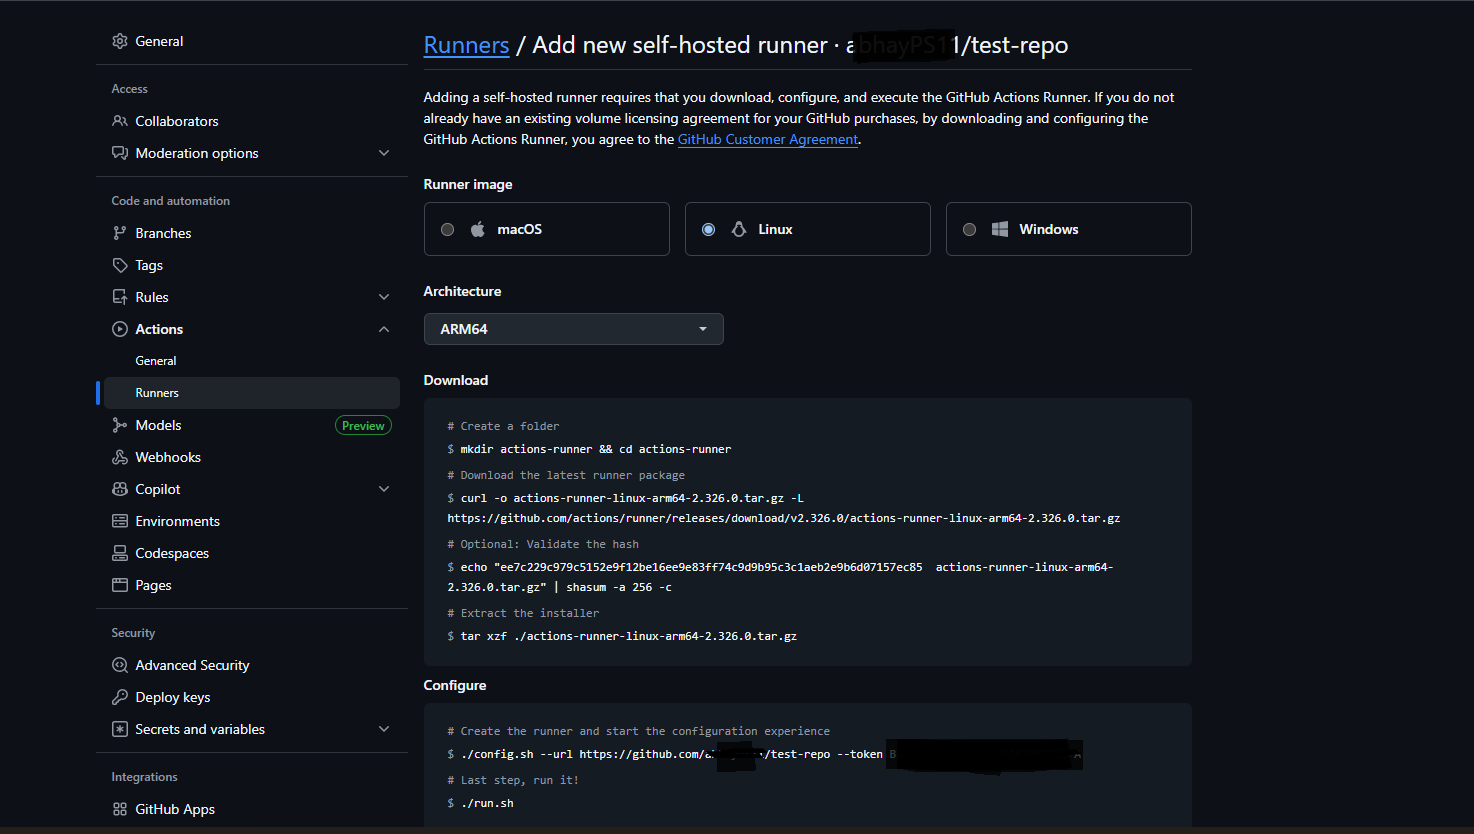
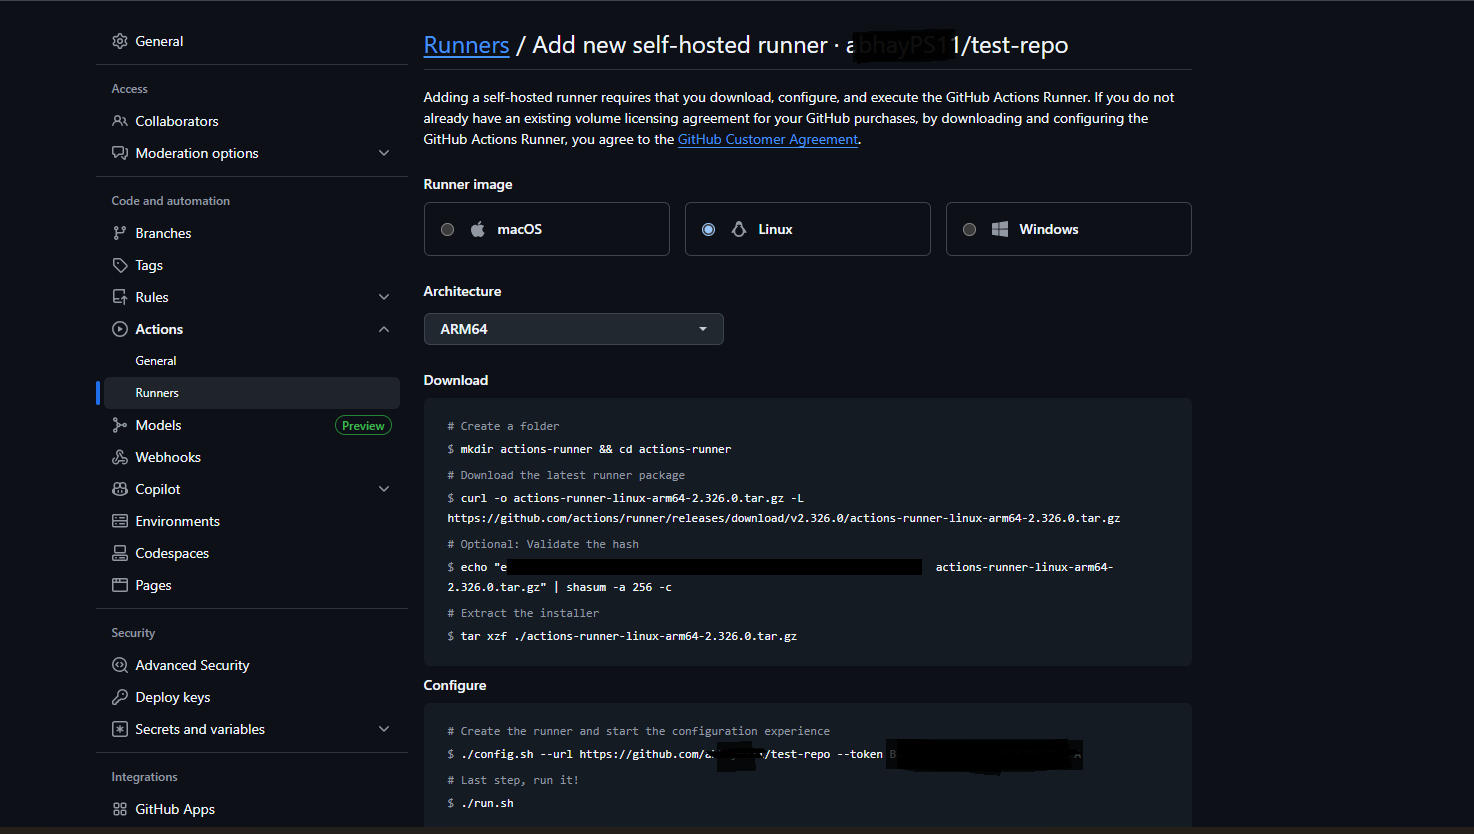
Tech review of Axion and GitHub Self-Hosted Runner

Changed region(s): [[0.3433, 0.6547, 0.6242, 0.717]]

diff --git a/content/learning-paths/servers-and-cloud-computing/github-on-arm/deploy.md b/content/learning-paths/servers-and-cloud-computing/github-on-arm/deploy.md
@@ -1,5 +1,5 @@
 ---
-title: Install and Set Up GitHub Self-Hosted Runner on Google Cloud C4A Virtual Machine
+title: Set up a GitHub Self-Hosted Runner
 weight: 4
 
 ### FIXED, DO NOT MODIFY
@@ -7,31 +7,53 @@ layout: learningpathall
 ---
 
 
-## Set Up GitHub Actions Self-Hosted Runner on Google Axion C4A Virtual Machine
+This section shows how to deploy a self-hosted GitHub Actions runner on your instance. It covers installing Git and GitHub CLI, authenticating with GitHub and configuring the runner on an Arm64 environment for optimized CI/CD workflows.
 
-This Learning Path shows how to deploy a self-hosted GitHub Actions runner on a Google Cloud C4A Arm64 virtual machine running Ubuntu. It covers installing Git and GitHub CLI, authenticating with GitHub and configuring the runner on an Arm64 environment for optimized CI/CD workflows.
+### Set up development environment
 
-### Install Git and GitHub CLI 
+Start by installing the required dependencies using the `apt` package manager:
+
 ```console
-sudo apt update 
-sudo apt install -y git gh
+sudo apt update
+sudo apt install -y git gh vim
 ```
-Login to GitHub
+
+Next step is to configure your git credentials. Update the command with your name and email.
+
+```bash
+git config --global user.email "[email redacted]"
+git config --global user.name "Your Name"
+```
+
+Now you are ready to connect the machine to GitHub. The command below is used to authenticate the GitHub CLI with your GitHub account. It allows you to securely log in using a web browser or token, enabling the CLI to interact with repositories, actions, and other GitHub features on your behalf.
+
+
 ```console
-gh auth login 
- ```
-The command `gh auth login` is used to authenticate the GitHub CLI with your GitHub account. It allows you to securely log in using a web browser or token, enabling the CLI to interact with repositories, actions, and other GitHub features on your behalf.
+gh auth login
+```
+
+The command will prompt you to make a few choices. For this use-case, you can use the default ones as shown in the image below.
 
 ![Login to GitHub](./images/gh-auth.png)
 
-Below is the GitHub login UI:
+{{% notice %}}
+If you get an error opening the browser on your virtual machine, you can navigate to the following URL on the host machine.
+```
+https://github.com/login/device
+```
+From there, you can enter the code displayed in the CLI of the virtual machine.
+{{% /notice %}}
+
+If the log in was successful, you will see the following confirmation in your browser window.
 
 ![GitHub UI](./images/login-page.png)
 
-### Test GitHub CLI and Git 
-Create a test repo: 
+### Test GitHub CLI and Git
+
+The command below creates a new public GitHub repository named **test-repo** using the GitHub CLI. It sets the repository visibility to public, meaning anyone can view it
+
 ```console
-gh repo create test-repo –public
+gh repo create test-repo --public
 ```
 You should see an output similar to:
 ```output
@@ -39,38 +61,25 @@ You should see an output similar to:
   https://github.com/<your-github-account>/test-repo
 ```
 
-The command `gh repo create test-repo --public` creates a new public GitHub repository named **test-repo** using the GitHub CLI. It sets the repository visibility to public, meaning anyone can view it 
 
 ### Configure the Self-Hosted Runner
-Go to your repository's **Settings > Actions**, and under the **Runners** section, click on **Add Runner** or view existing self-hosted runners.
+
+* Go to your repository's **Settings > Actions**, and under the **Runners** section
+* Click on **Add Runner** or view existing self-hosted runners.
+
+{{% notice Note %}}
 If the **Actions** tab is not visible, ensure Actions are enabled by navigating to **Settings > Actions > General**, and select **Allow all actions and reusable workflows**.
+{{% /notice %}}
 
 ![runner](./images/newsh-runner.png)
 
-Then, click on the **New runner** button, followed by **New self-hosted runner**. In the **Add new self-hosted runner** section, proceed as follows:
-- Select Linux for the operating system.
-- Choose ARM64 for the architecture
+Then, click on the **New self-hosted runner** button. In the **Add new self-hosted runner** section. Select Linux for the operating system, and choose ARM64 for the architecture. This will generate commands to set up the runner. Copy and run them on your Google Axion C4A virtual machine.
 
 ![new-runner](./images/new-runner.png)
 
-Next, execute the following instructions on your Google Axion C4A virtual machine:
-```console
-mkdir actions-runner && cd actions-runner# Download the latest runner package
-curl -o actions-runner-linux-arm64-2.326.0.tar.gz -L https://github.com/actions/runner/releases/download/v2.326.0/actions-runner-linux-arm64-2.326.0.tar.gz
-echo "ee7c229c979c5152e9f12be16ee9e83ff74c9d9b95c3c1aeb2e9b6d07157ec85  actions-runner-linux-arm64-2.326.0.tar.gz" | shasum -a 256 -c# Extract the installer
-tar xzf ./actions-runner-linux-arm64-2.326.0.tar.gz
-```
-Then, configure the virtual machine with the following command:
-
-```console
-./config.sh --url https://github.com/<YOUR_USERNAME>/YOUR_REPO --token YOUR_TOKEN
-```
-Replace `YOUR_USERNAME`, `YOUR_REPO`, and `YOUR_TOKEN` accordingly.
-This command links the runner to your GitHub repo using a one-time registration token.
+The final command links the runner to your GitHub repo using a one-time registration token.
 
 During the command’s execution, you will be prompted to provide the runner group, the name of the runner, and the work folder name. You can accept the defaults by pressing **Enter** at each step. The output will resemble as below:
-
-You should see an output similar to:
 
 ```output
 --------------------------------------------------------------------------------
@@ -111,3 +120,5 @@ Current runner version: '2.326.0'
 The runner will now be visible in the GitHub actions:
 
 ![final-runner](./images/final-runner.png)
+
+For now, you can terminate the `./run.sh` command with `Ctrl+C`. Move on to the next section to set up a simple web server using the runner.

diff --git a/content/learning-paths/servers-and-cloud-computing/github-on-arm/nginx-deployment.md b/content/learning-paths/servers-and-cloud-computing/github-on-arm/nginx-deployment.md
@@ -1,5 +1,5 @@
 ---
-title: Deploy NGINX on Self-Hosted Runner Using GitHub Actions
+title: Deploy NGINX the GitHub Runner
 weight: 5
 
 ### FIXED, DO NOT MODIFY
@@ -7,15 +7,25 @@ layout: learningpathall
 ---
 
 
-## Deploy NGINX Using GitHub Actions
-This workflow installs and starts the NGINX web server on a self-hosted runner whenever code is pushed to the main branch.
+This workflow installs and starts a basic NGINX web server on a self-hosted runner whenever code is pushed to the main branch.
 
-### Create the Workflow:
+In your instance's console, create a directory for the repository:
 
-Create a workflow file at `.github/workflows/deploy-nginx.yaml` with the following content:
+```console
+mkdir test-repo && cd test-repo
+echo "# test-repo" >> README.md
+```
+
+Then, create the GitHub Actions workflow file at `.github/workflows/deploy-nginx.yaml`.
+
+```console
+mkdir .github  && mkdir .github/workflows/
+vim .github/workflows/deploy-nginx.yaml
+```
+
+Paste the following code block into the file and save it.
 
 ```yaml
-
 name: Deploy NGINX
 
 on:
@@ -34,18 +44,34 @@ jobs:
       - name: Start NGINX
         run: sudo systemctl start nginx
 ```
-### Commit and Push:
 
- ```console
+Now it's time to initiate your repository and push the changes.
+
+```console
+git init
 git add .
-git commit -m "Add NGINX deploy workflow"
-git push origin main
+git commit -m "first commit"
+git branch -M main
+git remote add origin https://github.com/annietllnd/test-repo.git
+git push -u origin main
 ```
+
+This will trigger an actions job. The job will listen for a self-hosted runner to connect to the GitHub repository. Go back to the `actions-runner` directory and re-run the script from the previous section:
+
+```bash
+cd ..
+./run.sh
+```
+
+You will see in the output of the command that it identifies the a job called `deploy`, and that it finishes after having run the two steps.
+
 ### Access the NGINX Server
-Once the workflow completes, open your browser and navigate to:
+Once the workflow completes, open your browser and navigate to your machine's external IP address. You will find the information in your instance overview, under **Network interfaces**.
 ```
 http://<your-public-IP>
 ```
 You should see the NGINX welcome page confirming a successful deployment.
 
 ![nginx](./images/nginx.png)
+
+You should now know how to set up a self-hosted runner with an Arm-based Google Cloud instance, and use it to run GitHub Actions workflows. From here, you can modify the workflow file to try out different commands.

diff --git a/content/learning-paths/servers-and-cloud-computing/github-on-arm/instance.md b/content/learning-paths/servers-and-cloud-computing/github-on-arm/instance.md
@@ -1,5 +1,5 @@
 ---
-title: Create Google Axion C4A Arm virtual machine
+title: Create the instance
 weight: 3
 
 ### FIXED, DO NOT MODIFY
@@ -10,20 +10,24 @@ layout: learningpathall
 
 This guide walks you through provisioning **Google Axion C4A Arm virtual machine** on GCP with the **c4a-standard-4 (4 vCPUs, 16 GB Memory)** machine type, using the **Google Cloud Console**.
 
-If you are new to Google Cloud, it is recommended to follow the [GCP Quickstart Guide to Create a virtual machine](https://cloud.google.com/compute/docs/instances/create-start-instance).
-
-For more details, kindly follow the Learning Path on [Getting Started with Google Cloud Platform](https://learn.arm.com/learning-paths/servers-and-cloud-computing/csp/google/).
+If you haven't got a Google Cloud account, you can follow the Learning Path on [Getting Started with Google Cloud Platform](https://learn.arm.com/learning-paths/servers-and-cloud-computing/csp/google/) to get started.
 
 ### Create an Arm-based Virtual Machine (C4A)
 
 To create a virtual machine based on the C4A Arm architecture:
-1. Navigate to the [Google Cloud Console](https://console.cloud.google.com/).
-2. Go to **Compute Engine > VM Instances** and click on **Create Instance**. 
+1. Open the [Google Cloud Console](https://console.cloud.google.com/).
+2. Navigate to the card **Compute Engine** and click on **Create Instance**.
 3. Under the **Machine Configuration**:
       - Fill in basic details like **Instance Name**, **Region**, and **Zone**.
       - Choose the **Series** as `C4A`.
       - Select a machine type such as `c4a-standard-4`.
-![Instance Screenshot](./images/image.png)
-4. Under the **OS and Storage**, click on **Change**, and select Arm64 based OS Image of your choice. For this Learning Path, we pick **Ubuntu** as the Operating System with **Ubuntu 24.04 LTS Minimal** as the Version. Make sure you pick the version of image for Arm.
+![Instance Screenshot](./images/select-instance.png)
+4. Under the **OS and Storage**, click on **Change**, pick **Ubuntu** as the Operating System with **Ubuntu 24.04 LTS Minimal** as the Version. Make sure you pick the version of image for Arm.
 5. Under **Networking**, enable **Allow HTTP traffic** to test workloads like NGINX later.
 6. Click on **Create**, and the instance will launch.
+
+{{% notice Important %}}
+You should not enable the **Allow HTTP traffic** permanently, since this poses a security risk. For the long-term, you should only allow traffic from the IP address you use to connect to the instance.
+{{% /notice %}}
+
+You can access the Google Cloud Console by clicking the **SSH** button in the instance overview. Use this command line interface (CLI) to run the commands in the remainder of this Learning Path.

diff --git a/content/learning-paths/servers-and-cloud-computing/github-on-arm/_index.md b/content/learning-paths/servers-and-cloud-computing/github-on-arm/_index.md
@@ -1,9 +1,9 @@
 ---
 title: Deploy GitHub Actions Self-Hosted Runner on Google Axion C4A virtual machine
- 
-minutes_to_complete: 30
 
-who_is_this_for: This Learning Path is for DevOps engineers, system administrators, or developers who want to deploy GitHub Actions Self-Hosted Runner on the Google Axion C4A Arm virtual machine.
+minutes_to_complete: 15
+
+who_is_this_for: This is an introductory topic for developers who want to deploy GitHub Actions Self-Hosted Runner on an Arm-based Google Axion C4A instance.
 
 learning_objectives:
        - Provision an Arm virtual machine on the Google Cloud Platform using the C4A Google Axion instance family.
@@ -12,8 +12,7 @@ learning_objectives:
 
 prerequisites:
      - A [Google Cloud Platform (GCP)](https://cloud.google.com/free?utm_source=google&hl=en) account with billing enabled.
-     - Familiarity with [GitHub Actions](https://github.com/features/actions) and the Linux command line.
-     - A GitHub account. You can sign up [here](https://github.com/signup).     
+     - A GitHub account. You can sign up [here](https://github.com/signup).
 
 author: Jason Andrews
 
@@ -49,6 +48,11 @@ further_reading:
     - resource:
         title: GitHub Actions Arm runners
         link: https://github.blog/news-insights/product-news/arm64-on-github-actions-powering-faster-more-efficient-build-systems/
+        type: website
+
+    - resource:
+        title: GCP Quickstart Guide to Create a virtual machine
+        link: https://cloud.google.com/compute/docs/instances/create-start-instance
         type: website
 
 

diff --git a/content/learning-paths/servers-and-cloud-computing/github-on-arm/background.md b/content/learning-paths/servers-and-cloud-computing/github-on-arm/background.md
@@ -1,5 +1,5 @@
 ---
-title: "About Google Axion C4A series and GitHub Actions"
+title: "About Google Axion and GitHub Actions"
 
 weight: 2
 
@@ -10,7 +10,7 @@ layout: "learningpathall"
 
 The Google Axion C4A series is a family of Arm-based virtual machines built on Google’s custom Axion CPU, which is based on Arm Neoverse-V2 cores. Designed for high-performance and energy-efficient computing, these virtual machines offer strong performance ideal for modern cloud workloads such as CI/CD pipelines, microservices, media processing, and general-purpose applications.
 
-The C4A series provides a cost-effective alternative to x86 virtual machine while leveraging the scalability and performance benefits of the Arm architecture in Google Cloud.
+The C4A series provides offer a cost-effective virtual machine while leveraging the scalability and performance benefits of the Arm architecture in Google Cloud.
 
 To learn more about Google Axion, refer to the blog [Introducing Google Axion Processors, our new Arm-based CPUs](https://cloud.google.com/blog/products/compute/introducing-googles-new-arm-based-cpu).
 